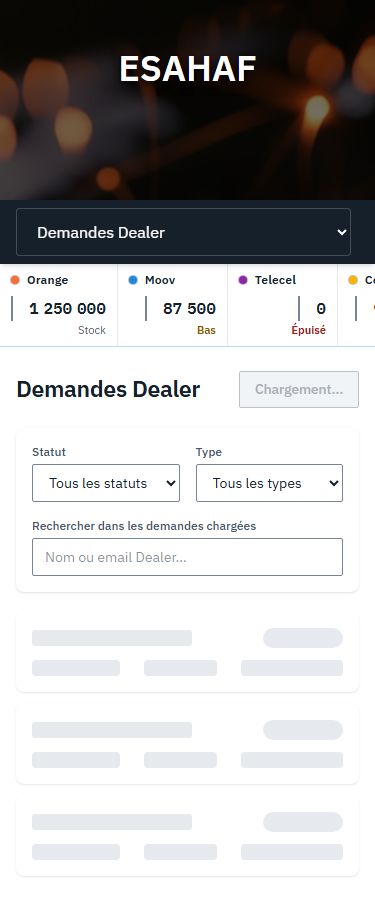
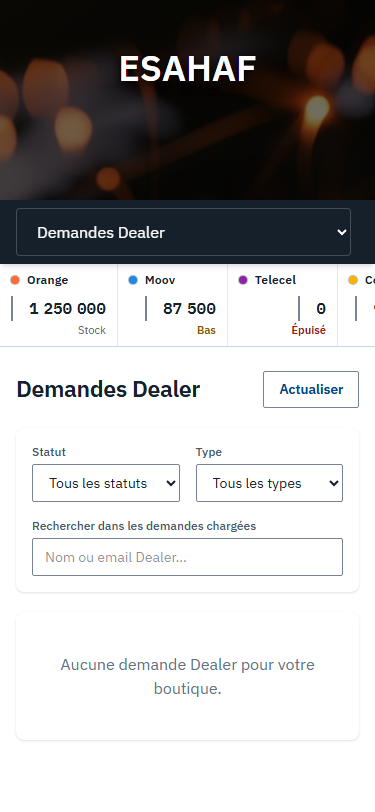
docs(bilan): la campagne L9, et le banc complet vert pour la premiere fois
Le bilan couvrait l'etat au point d'arret (42 commits). Le point d'arret a ete
leve le 2026-09-19 avec la contrainte « ne touche pas aux ecrans dealer et
gerant », puis precise : la maquette ne concerne ni dealer ni gerant — ce sont
les espaces /dealer/* et /admin/*, qui ont leurs propres Layouts. Les ecrans
src/pages/store/ (Demandes Dealer, Dettes internes, Clotures) sont dans la
maquette, donc dans la boutique.

SECTION 10 AJOUTEE — les cinq lots de la campagne, et ce qu'ils ont appris.

LE BANC COMPLET, AU FIL DE LA CAMPAGNE

  avant L9.3    81 passed,  5 failed, 1 skipped
  apres L9.4    84 passed,  2 failed, 1 skipped
  apres L9.5    86 passed,  0 failed, 1 skipped

Premiere fois que `qa:full` est entierement vert. Le chiffre de depart dit
pourquoi : les cinq rouges n'ont pas ete introduits par cette campagne, ils y ont
seulement ete VUS. Ils dataient de L7.1 et L8.4.

DEUX LECONS ECRITES DANS LE BILAN, parce qu'elles valent au-dela de ce chantier

  · Un test rouge qu'on n'execute pas ne garde rien, et une promesse de
    correction ecrite dans un commentaire de test n'est pas une correction. Le
    banc complet doit tourner a chaque lot, pas a chaque campagne.
  · Une sonde peut etre cassee par la correction meme qu'elle verifie : en
    donnant sa forme a la pastille, le lot L9.5 a ajoute un span vide dedans, et
    la sonde — qui ne retenait que les span SANS ENFANT — n'a plus rien trouve.
[…]

diff --git a/docs/audit/BILAN-REFONTE-ESAHAF.md b/docs/audit/BILAN-REFONTE-ESAHAF.md
@@ -1,7 +1,11 @@
 # Bilan — refonte du design, espace boutique ESAHAF
 
-> Point 11 de `METHODE-REFONTE-DESIGN.md` §17.2. **Point d'arrêt dur** : rien n'est
-> entrepris au-delà sans nouvelle instruction.
+> Point 11 de `METHODE-REFONTE-DESIGN.md` §17.2.
+>
+> ⚠ **Le point d'arrêt a été levé le 2026-09-19**, avec une contrainte
+> ajoutée : « ne touche pas aux écrans dealer et gérant pour l'instant ». La
+> campagne L9 (§10) s'est déroulée sous cette instruction. Les §1 à §9 décrivent
+> l'état au point d'arrêt ; le §10 décrit ce qui a suivi.
 >
 > Branche : `refonte-design-esahaf` · Date : 2026-09-18
 > Périmètre : le `Layout` et les dix routes boutique de `src/App.jsx`.
@@ -16,13 +20,13 @@
 
 ```
 git log --oneline $(git merge-base main refonte-design-esahaf)..HEAD | wc -l
-  42 commits
+  54 commits          (42 au point d'arrêt, + 12 pendant la campagne L9)
 
 git diff --shortstat $(git merge-base main refonte-design-esahaf)..HEAD
-  206 files changed, 14100 insertions(+), 991 deletions(-)
+  238 files changed, 21091 insertions(+), 996 deletions(-)
 
 git diff --name-only --diff-filter=A <base>..HEAD | grep -c '^tests/'
-  31 fichiers de test ajoutés
+  36 fichiers de test ajoutés
 ```
 
 Les onze points de la méthode ont été parcourus : le filet (4), les jetons (5),
@@ -346,6 +350,109 @@ Les points 4 à 10 sont faits. Ce document est le point 11.
 été effectué, aucun identifiant de production n'a été employé, aucune écriture
 n'a touché Firestore production. Émulateurs uniquement.**
 
-Trois sujets attendent une décision avant tout travail supplémentaire : les
+Trois sujets attendaient une décision avant tout travail supplémentaire : les
 phrases de vide (§6), la convention de signe (§6), et la capture différentielle
 de TAOFIC (§4).
+
+> ⟲ **À JOUR AU 2026-09-19.** La convention de signe a été TRANCHÉE par le
+> client et implémentée (commit « la convention de signe — un depot sort du
+> stock, un retrait y rentre », TC-174). Le point d'arrêt a été levé, et la
+> campagne L9 a suivi : voir §10. **Les phrases de vide attendent toujours une
+> décision**, et la capture différentielle de TAOFIC n'a toujours pas été
+> faite — le mécanisme, lui, est gardé par `npm run qa:taofic`.
+
+---
+
+## 10. Campagne L9 — après la levée du point d'arrêt (2026-09-19)
+
+Cinq lots, sous la contrainte « ne touche pas aux écrans dealer et gérant ».
+Aucun fichier de `src/pages/dealer/` ni de `src/pages/admin/` n'a été modifié.
+
+| Lot | Ce qu'il corrige | Preuve |
+|---|---|---|
+| **L9.1** | Le soulignement vert survivait sous le titre du Formulaire — un `h2` sans marqueur, donc hors de portée CSS | TC-176 balaie les 135 fichiers du graphe boutique ; rouge vérifié avant correction |
+| **L9.2** | **Les champs de saisie n'avaient jamais été dessinés** — zéro règle dans `index.css` | banc rouge sans le bloc CSS, vert avec |
+| **L9.3** | La sonde de contraste du bandeau ne mesurait plus rien depuis L7.1 | 3 failed → 11 passed |
+| **L9.4** | Le wordmark tombait à 1,61:1 sur la photographie, à 1440 px | tolérance figée éteinte d'elle-même |
+| **L9.5** | Une opération « Annulée » portait le vert de la réussite | banc rouge sans le bloc CSS, vert avec ; TC-177 |
+
+### 10.1 Le relevé qui a motivé le lot des champs
+
+Sur les onze points d'entrée, imports suivis (135 fichiers, 43 champs) :
+
+```
+43   champs dans le périmètre
+26   avec une bordure sous 3:1        → WCAG 1.4.11 non tenu
+18   avec `focus:outline-none`        → WCAG 2.4.7 en jeu
+11   dont le focus n'était plus dit QUE par une bordure verte
+ 4   avec une bordure d'erreur à 1,90:1
+```
+
+L'erreur rouge a été **mise à niveau** (1,90:1 → 7,87:1), pas effacée : sans
+l'exclusion `:not([class*='border-red'])`, la règle neutre à (0,5,1) aurait
+écrasé le signal d'erreur de quatre champs. Repeindre une bordure ne vaut pas de
+faire disparaître un avertissement.
+
+### 10.2 ⚠ Ce que cette campagne a surtout révélé : le banc n'était plus rejoué
+
+`npm run qa:full` portait **cinq rouges** dont personne n'avait connaissance. Ils
+n'étaient ni nouveaux ni causés par un lot récent : ils dataient de L7.1 et de
+L8.4, et le banc complet n'avait pas tourné depuis.
+
+Les deux causes valent d'être retenues, parce qu'elles ne se ressemblent pas :
+
+1. **Un locator périmé par une correction antérieure.** Le lot L7.1 avait fait du
+   wordmark un `span` au lieu d'un `h1` — c'était son objet même. Le banc
+   cherchait toujours `header h1` et ne trouvait plus rien. Il ne mesurait donc
+   plus le contraste du bandeau, et n'a pas vu qu'il était tombé à 1,61:1.
+2. **Une correction attribuée au mauvais lot.** Le contrôle de la pastille de
+   statut nommait lui-même « CORRECTION PRÉVUE AU LOT L8.4 ». Le lot L8.4 a
+   corrigé autre chose. Le rouge est resté, et le commentaire a continué
+   d'affirmer qu'une correction était prévue.
+
+**Les leçons :** un test rouge qu'on n'exécute pas ne garde rien, et une promesse
+de correction écrite dans un test n'est pas une correction. Le banc complet doit
+tourner à chaque lot, pas à chaque campagne.
+
+### 10.3 ⚠ Une sonde cassée par la correction qu'elle vérifie
+
+En donnant sa **forme** à la pastille de statut — le troisième canal exigé par
+la maquette — le lot L9.5 a ajouté un `<span>` vide à l'intérieur d'elle. La
+sonde ne retenait que les `span` **sans enfant**, ce qui était vrai du produit
+quand elle a été écrite. Elle n'a plus rien trouvé.
+
+Ce qui l'a dit n'est pas son assertion mais son **garde-fou** : « le banc sème
+quatre statuts distincts ; 0 trouvé(s) à l'écran ». Sans lui, elle serait passée
+au vert en n'ayant rien mesuré — exactement le faux vert que ce chantier a appris
+à redouter. Sa règle ne suppose plus rien de la structure : l'élément le plus
+intérieur qui porte le mot.
+
+**La leçon :** toute sonde qui compte doit porter une assertion sur ce qu'elle a
+réellement mesuré. Et une sonde réparée doit être prouvée capable de rougir à
+nouveau — ce qui a été fait en retirant le bloc CSS par `git stash`.
+
+### 10.4 Deux décisions de palette qui se défendent
+
+Elles sont argumentées dans `src/utils/statutDuMouvement.js` et reprises ici
+parce qu'elles engagent le système, pas un écran :
+
+- **Aucun statut d'opération ne prend `--echec`.** Le jeton porte son contrat :
+  « RÉSERVÉ à l'échec : aucune opération normale ne le porte ». Annuler ou
+  rembourser sont des gestes normaux du comptoir ; les peindre en rouge
+  accuserait d'erreur un travail correct.
+- **« Remboursée » et « Annulée » partagent la teinte neutre.** Rien ne les sépare
+  sur l'axe réussite/échec. Ce qui les sépare est le MOT et la FORME. Un cas de
+  TC-177 garde les quatre formes distinctes : s'il rougit, c'est la décision
+  qu'il faut rouvrir, pas le test.
+
+### 10.5 Ce qui reste, après L9
+
+| Sujet | État | Nature |
+|---|---|---|
+| **28 phrases de vide** + `EmptyState` : 0/11 écrans boutique | inchangé — **attend une décision** | contenu |
+| Les autres pastilles (`StatusBadge`, `DealerRequestStatusBadge`) | **non restylées**, mais elles LISENT déjà leur statut — pas fausses, pas dessinées | apparence |
+| `.ecran__compte` — « 412 clients enregistrés · 25 affichés » | absent partout | contenu |
+| `.ecran__actions` — actions à droite du titre | le produit les empile dans leur propre rangée | structurel |
+| `.modal`, `.fiche-client`, `.recap`/`.verdict` | non restylés | apparence |
+| États d'erreur et d'erreur partielle (`.etat-bloc`) | inexistants | apparence |
+| « Top client du jour » → « Client le plus actif » | prescrit par la maquette, non fait | contenu |
